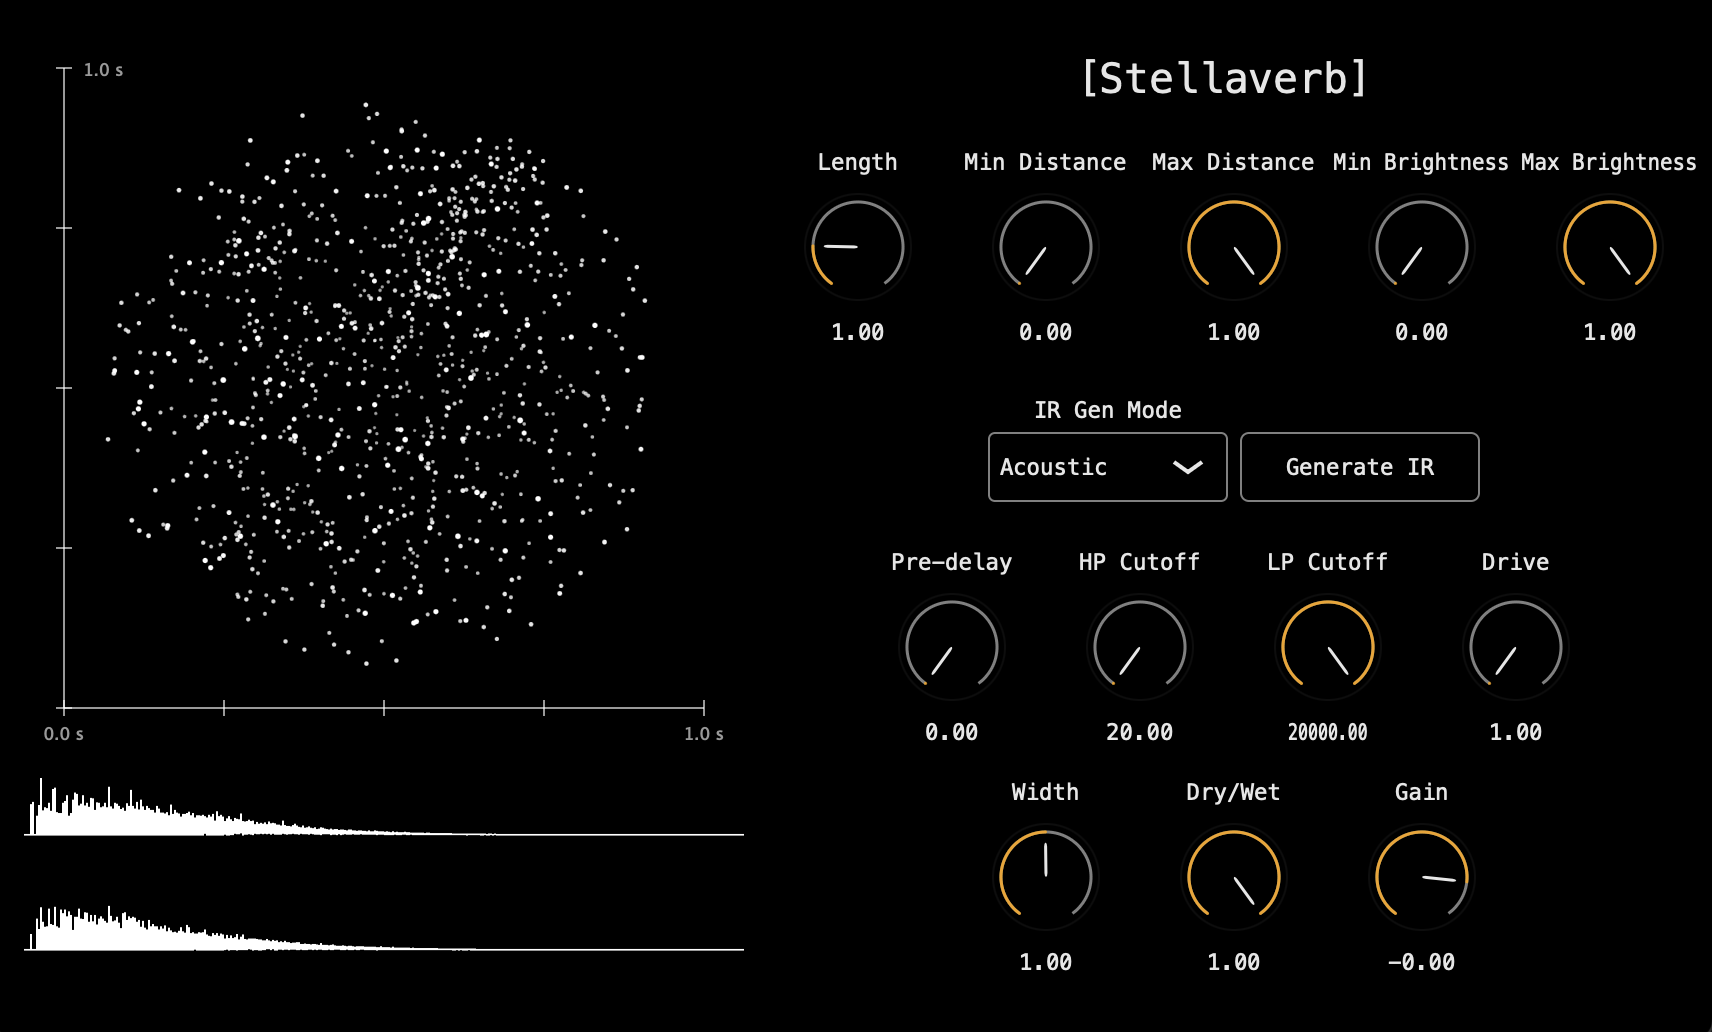
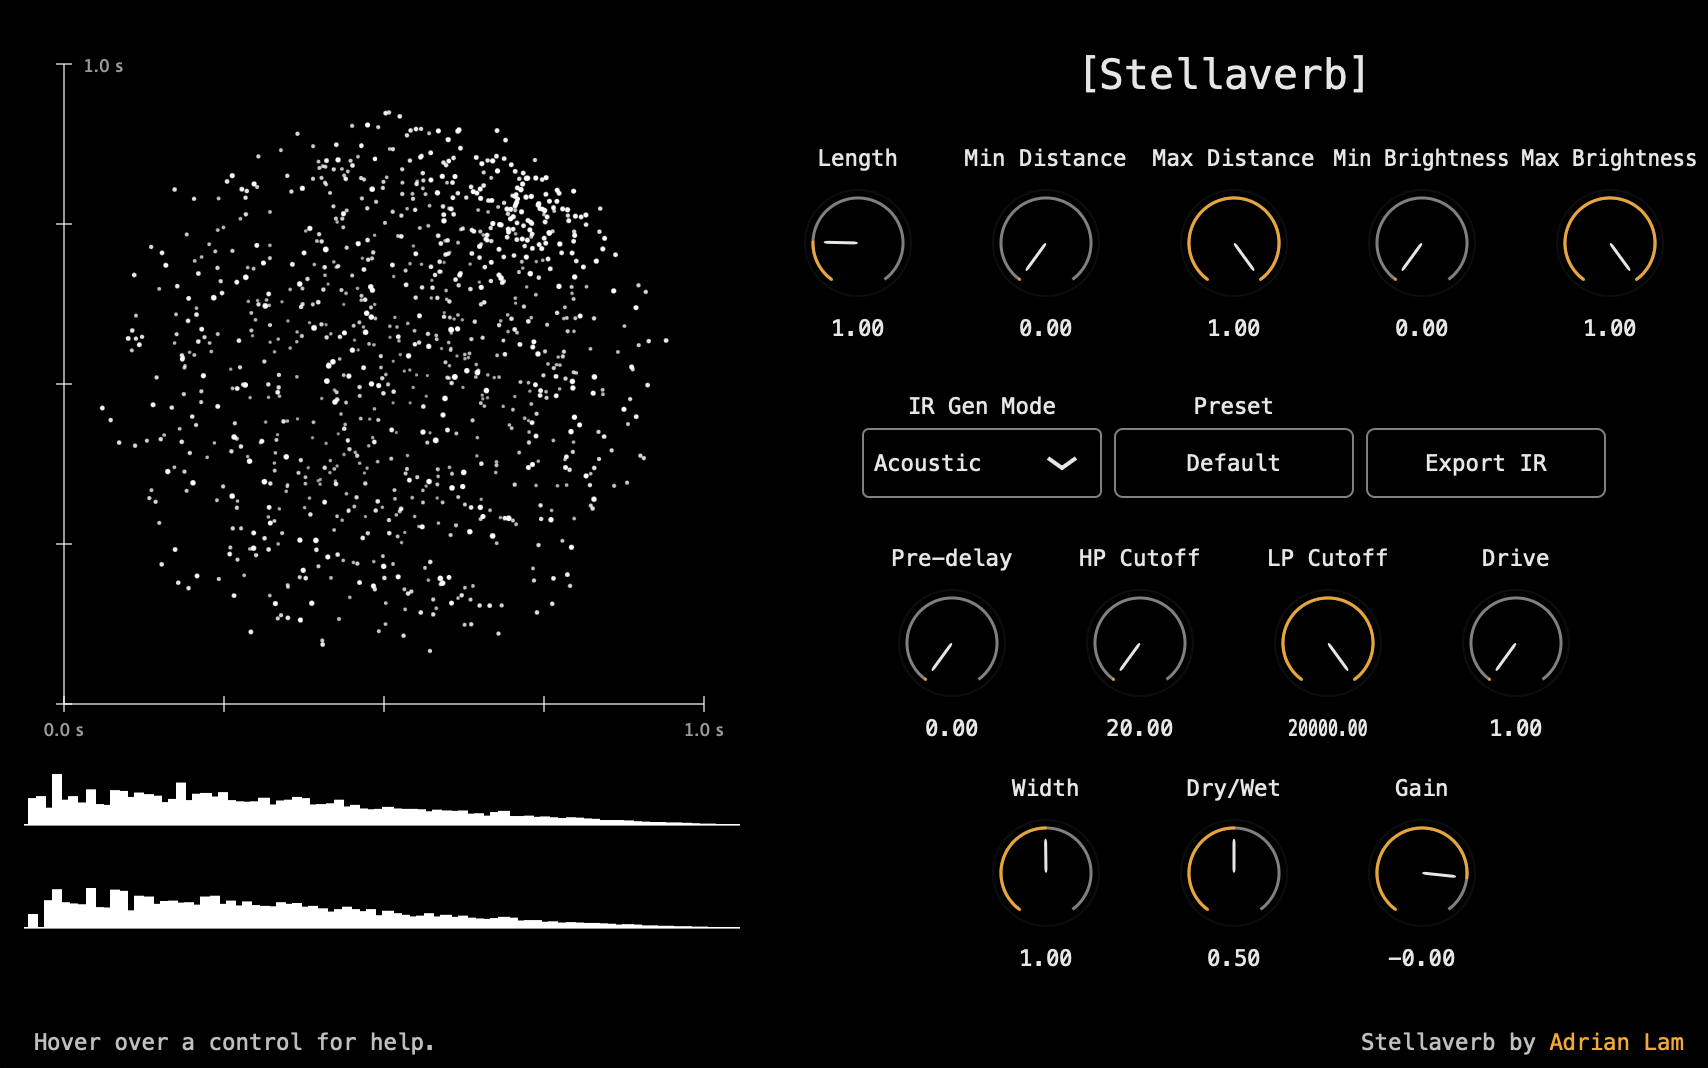
Update README.md and UI screenshot

diff --git a/README.md b/README.md
@@ -12,7 +12,15 @@ Here is a short demo video of what the plugin sounds like.
 https://github.com/user-attachments/assets/cb92aee9-d773-4f54-8f14-84a707983d79
 
 ## Install
-TODO
+
+Download the ZIP for your platform from the [Releases page](https://github.com/adrian-1219/Stellaverb/releases/). Extract the ZIP file and follow the instructions in INSTALL.txt. 
+
+Below are the available builds for Stellaverb v0.3.0.
+
+| OS | Architecture | Format |
+| -- | -- | -- |
+| Windows | x64 | VST3 |
+| macOS | Apple Silicon (arm64) | VST3, AU |
 
 ## Features
 
